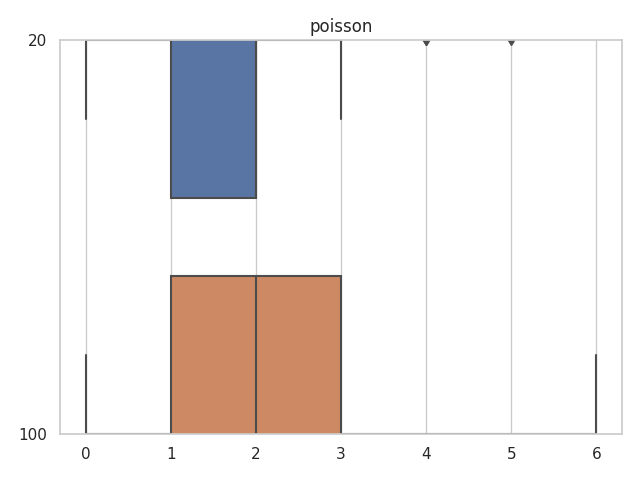
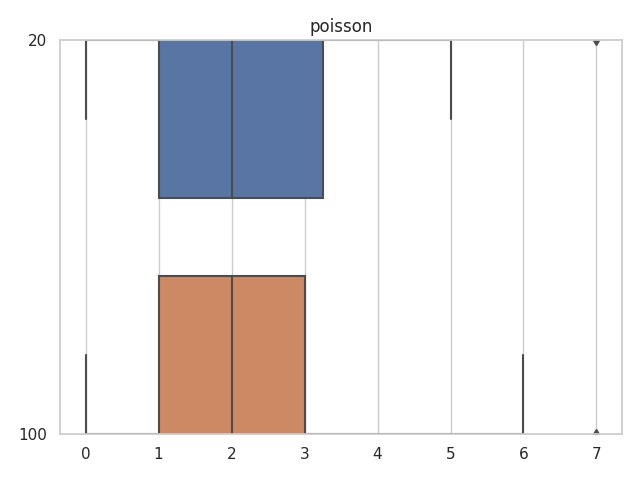
Fixed lab_3

diff --git a/lab_3/lab_3.py b/lab_3/lab_3.py
@@ -1,6 +1,6 @@
 import numpy
 import seaborn as sns
-import matplotlib.pyplot as mplot
+import matplotlib.pyplot as plt
 import sys
 
 
@@ -8,8 +8,8 @@ POISSON_PARAM = 2
 UNIFORM_LEFT = -numpy.sqrt(3)
 UNIFORM_RIGHT = numpy.sqrt(3)
 LAPLAS_COEF = numpy.sqrt(2)
-selection = [20, 100]
-selection = numpy.sort(selection)
+selection = numpy.sort([20, 100])
+
 
 def standart_normal(x):
     return (1 / numpy.sqrt(2*numpy.pi)) * numpy.exp(- x * x / 2)
@@ -74,7 +74,7 @@ def Zq(x):
 
 def Ztr(x):
     length = x.size
-    r = (int)(length / 4)
+    r = int(length / 4)
     sum = 0
     for i in range(r, length - r):
         sum += x[i]
@@ -91,7 +91,7 @@ def ejection(x):
     left = numpy.quantile(x, 1 / 4) - 1.5 * IQR(x)
     right = numpy.quantile(x, 3 / 4) + 1.5 * IQR(x)
     for i in range(0, length):
-        if(x[i] < left or x[i] > right):
+        if x[i] < left or x[i] > right:
             count += 1
     return count / length
 
@@ -121,12 +121,7 @@ def D(z):
     return numpy.var(z)
 
 
-f = open('out1.csv', 'w')
-std = sys.stdout
-sys.stdout = f
-
 def research(dist_type):
-   # print('-------------------------------------')
     print()
     print(dist_type)
 
@@ -145,23 +140,25 @@ def research(dist_type):
         print("%-12f;" % E(eject), end="")
         print()
 
-    mplot.figure(dist_type)
-    mplot.title(dist_type)
+    plt.figure(dist_type)
+    plt.title(dist_type)
     sns.set(style="whitegrid")
     ax = sns.boxplot(data=data, orient='h')
-    mplot.yticks(numpy.arange(2), ('20', '100'))
-    mplot.show()
+    plt.yticks(numpy.arange(2), ('20', '100'))
+    plt.show()
 
 
+if __name__ == "__main__":
+    f = open('out1.csv', 'w')
+    std = sys.stdout
+    sys.stdout = f
 
+    research('normal')
+    research('cauchy')
+    research('laplace')
+    research('uniform')
+    research('poisson')
 
-research('normal')
-research('cauchy')
-research('laplace')
-research('uniform')
-research('poisson')
-
-
-f.close()
-sys.stdout = std
-print("Done")
+    f.close()
+    sys.stdout = std
+    print("Done")

diff --git a/lab_3/lab_3.tex b/lab_3/lab_3.tex
@@ -132,7 +132,7 @@ x_{[np]+1}, & np \notin \mathbb{Z}
 
 Боксплот Тьюки был построен средствами библиотеки matplotlib \cite{plotlib}.
 
-Правая и левые границы:  $R- LQ - l(UQ - LQ),\;L = UQ -k(UQ - LQ),$ где $k$ обычно полагают равным $1.5$ 
+Правая и левые границы:  $R- LQ - l(UQ - LQ),\;L = UQ -k(UQ - LQ),$ где $k=1.5$ 
 
 \section{Результаты}
 
@@ -173,7 +173,7 @@ x_{[np]+1}, & np \notin \mathbb{Z}
 \hline
 normal&\\
 \hline
-n = 20    &3    \\
+n = 20    &2    \\
 \hline
 n = 100   &1    \\
 \hline
@@ -198,7 +198,7 @@ n = 100   &0    \\
 poisson &
 \\
 \hline
-n = 20    &2    \\
+n = 20    &3    \\
 \hline
 n = 100   &1    \\
 \hline
